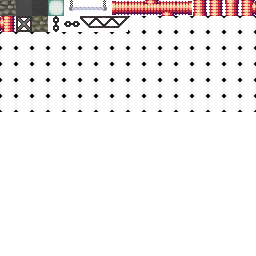
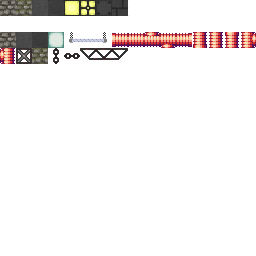
#10 some gen stuff

Changed region(s): [[0.0, 0.0, 1.0, 0.25]]

diff --git a/mods/world/src/server/gen.rs b/mods/world/src/server/gen.rs
@@ -1,7 +1,11 @@
-use noise::{Fbm, NoiseFn, OpenSimplex, RidgedMulti, Terrace, Worley};
+use std::collections::hash_map::DefaultHasher;
+use std::hash::{SipHasher, Hasher};
+
 use aeonetica_engine::log;
+use noise::{Fbm, NoiseFn, OpenSimplex, RidgedMulti, Terrace, Worley};
 use aeonetica_engine::math::vector::Vector2;
-use crate::common::{CHUNK_SIZE, Population};
+use rand::{SeedableRng, Rng};
+use crate::common::{CHUNK_SIZE, Population, Chunk, WorldView};
 use crate::server::world::World;
 use crate::tiles::Tile;
 
@@ -27,8 +31,31 @@ impl GenProvider {
 }
 
 impl World {
-    pub(crate) fn populate(&mut self, chunk_pos: Vector2<i32>) {
-        log!(WARN, "populated {chunk_pos}");
+    pub(crate) fn mut_init_chunk_at(&mut self, chunk_pos: Vector2<i32>, stage: Population) -> &mut Chunk{
+        let mut p = self.mut_chunk_at_raw(chunk_pos).population;
+        while (p as u8) < stage as u8 {
+            println!("{} {:?} {:?}", chunk_pos, p, stage);
+            match p {
+                Population::Uninit => self.populate_terrain(chunk_pos),
+                Population::TerrainRaw => self.post_process_terrain(chunk_pos),
+                Population::TerrainPostProcess => self.structurize_chunk(chunk_pos),
+                Population::Structures => self.mut_chunk_at_raw(chunk_pos).population = Population::Finished,
+                Population::Finished => unreachable!("finished should always be last population stage"),
+            }
+            p = self.mut_chunk_at_raw(chunk_pos).population;
+        }
+        self.mut_chunk_at_raw(chunk_pos)
+    }
+
+    pub fn get_init_tile_at(&mut self, pos: Vector2<i32>, stage: Population) -> Tile {
+        self.mut_init_chunk_at(World::chunk(pos), stage).get_tile(World::pos_in_chunk(pos))
+    }
+
+    pub fn set_init_tile_at(&mut self, pos: Vector2<i32>, stage: Population, t: Tile) {
+        self.mut_init_chunk_at(World::chunk(pos), stage).set_tile(World::pos_in_chunk(pos), t)
+    }
+
+    fn populate_terrain(&mut self, chunk_pos: Vector2<i32>) {
         let gen = self.generator.clone();
         let chunk = self.mut_chunk_at_raw(chunk_pos);
         let scale = 0.75;
@@ -52,16 +79,16 @@ impl World {
                         (gen.cave_noise.get((p + Vector2::new(0.0, -scale)).into_array()) > 0.0) as i32;
                 if accent_2 {
                     chunk.set_tile((x, y).into(), if accent > 1 {
-                        Tile::FloorHardStone
+                        Tile::HardStone
                     } else {
-                        Tile::FloorStoneBrick
+                        Tile::StoneBrick
                     })
                 }
                 else if (current && around > 1) || around > 2 {
                     chunk.set_tile((x, y).into(), if accent > 1 {
-                        Tile::FloorStone
+                        Tile::Stone
                     } else {
-                        Tile::FloorStoneBrick
+                        Tile::StoneBrick
                     })
                 }
             }
@@ -70,6 +97,56 @@ impl World {
         // TEMPORARY:
         chunk.set_tile(Vector2::default(), Tile::Lamp);
         
-        chunk.population = Population::Finished;
+        chunk.population = Population::TerrainRaw;
+    }
+
+    fn post_process_terrain(&mut self, chunk_pos: Vector2<i32>) {
+        let pos = chunk_pos * 16;
+        for x in 0..CHUNK_SIZE as i32 {
+            for y in 0..CHUNK_SIZE as i32 {
+                if self.get_init_tile_at(pos + Vector2::new(x, y), Population::TerrainRaw) != Tile::Wall {
+                    let s = (self.get_init_tile_at(pos + Vector2::new(x + 1, y + 0), Population::TerrainRaw) == Tile::Wall) as u8
+                              + (self.get_init_tile_at(pos + Vector2::new(x - 1, y + 0), Population::TerrainRaw) == Tile::Wall) as u8
+                              + (self.get_init_tile_at(pos + Vector2::new(x + 0, y + 1), Population::TerrainRaw) == Tile::Wall) as u8
+                              + (self.get_init_tile_at(pos + Vector2::new(x + 0, y - 1), Population::TerrainRaw) == Tile::Wall) as u8;
+                    if s == 4 {
+                        self.set_init_tile_at(pos + Vector2::new(x, y), Population::TerrainRaw, Tile::Wall)
+                    }
+                } else {
+                    let s = (self.get_init_tile_at(pos + Vector2::new(x + 1, y + 0), Population::TerrainRaw) != Tile::Wall) as u8
+                              + (self.get_init_tile_at(pos + Vector2::new(x - 1, y + 0), Population::TerrainRaw) != Tile::Wall) as u8
+                              + (self.get_init_tile_at(pos + Vector2::new(x + 0, y + 1), Population::TerrainRaw) != Tile::Wall) as u8
+                              + (self.get_init_tile_at(pos + Vector2::new(x + 0, y - 1), Population::TerrainRaw) != Tile::Wall) as u8;
+                    if s == 4 {
+                        self.set_init_tile_at(pos + Vector2::new(x, y), Population::TerrainRaw, Tile::StoneBrick)
+                    }
+                }
+            }
+        }
+        self.mut_chunk_at_raw(chunk_pos).population = Population::TerrainPostProcess;
+    }
+
+    fn structurize_chunk(&mut self, chunk_pos: Vector2<i32>) {
+        self.mut_chunk_at_raw(chunk_pos).population = Population::Structures;
+        if chunk_pos.mag_sq() <= 2 { return }
+        let pos = chunk_pos * 16;
+        let mut rng = rand::rngs::StdRng::seed_from_u64(self.chunk_hash_with_seed_and_salt(pos, 0));
+        if rng.gen_ratio(1, 10) {
+            for x in 3..(CHUNK_SIZE-3) as i32 {
+                for y in 3..(CHUNK_SIZE-3) as i32 {
+                    self.set_init_tile_at(pos + Vector2::new(x, y), Population::TerrainPostProcess, 
+                    if (x == 3) as u8 + (y == 3) as u8 + (x == CHUNK_SIZE as i32 - 4) as u8 + (y == CHUNK_SIZE as i32 - 4) as u8 > 1 { Tile::Lamp } else { Tile::LabWall })
+                }
+            }
+        }
+    }
+
+    fn chunk_hash_with_seed_and_salt(&self, pos: Vector2<i32>, salt: u64) -> u64 {
+        let mut hasher = DefaultHasher::new();
+        hasher.write_u64(self.generator.seed);
+        hasher.write_i32(pos.x);
+        hasher.write_i32(pos.y);
+        hasher.write_u64(salt);
+        hasher.finish()
     }
 }

diff --git a/mods/world/src/server/world.rs b/mods/world/src/server/world.rs
@@ -18,7 +18,7 @@ use crate::tiles::Tile;
 
 pub const WORLD: &str = "WORLD";
 
-struct ChunkHolder {
+pub(crate) struct ChunkHolder {
     further_x: Option<Box<ChunkHolder>>,
     further_y: Option<Box<ChunkHolder>>,
     chunk: Chunk,
@@ -81,65 +81,12 @@ impl World {
         self.get_chunk_at(World::chunk(pos)).get_tile(World::pos_in_chunk(pos))
     }
 
-    pub fn try_get_tile_no_gen(&self, pos: Vector2<i32>) -> Nullable<Tile> {
-        Nullable::Value(self.try_get_chunk_no_gen(World::chunk(pos))?.get_tile(World::pos_in_chunk(pos)))
-    }
-
     pub fn set_tile_at(&mut self, pos: Vector2<i32>, t: Tile) {
         self.mut_chunk_at(World::chunk(pos)).set_tile(World::pos_in_chunk(pos), t)
     }
 
     pub fn mut_chunk_at(&mut self, chunk_pos: Vector2<i32>) -> &mut Chunk {
-        if let Population::Finished = self.mut_chunk_at_raw(chunk_pos).population {
-            self.mut_chunk_at_raw(chunk_pos)
-        } else {
-            self.populate(chunk_pos);
-            self.mut_chunk_at_raw(chunk_pos)
-        }
-    }
-
-    pub fn try_get_chunk_no_gen(&self, chunk_pos: Vector2<i32>) -> Nullable<&Chunk> {
-        if self.cached_chunk_pos == chunk_pos {
-            return Nullable::Value(unsafe { &*(self.cached_chunk_raw_ptr as *const Chunk) })
-        }
-
-        let mut cp = chunk_pos;
-        let mut chunk_ref = match (chunk_pos.x >= 0, chunk_pos.y >= 0) {
-            (true, true) => {
-                &self.origin_ne
-            },
-            (true, false) => {
-                cp.y = -cp.y - 1;
-                &self.origin_se
-            },
-            (false, true) => {
-                cp.x = -cp.x - 1;
-                &self.origin_nw
-            },
-            (false, false) => {
-                cp.x = -cp.x - 1;
-                cp.y = -cp.y - 1;
-                &self.origin_sw
-            },
-        };
-        while cp.x > 0 {
-            cp.x -= 1;
-            if chunk_ref.further_x.is_none() {
-                return Nullable::Null
-            }
-            chunk_ref = chunk_ref.further_x.as_ref().unwrap();
-        }
-        while cp.y > 0 {
-            cp.y -= 1;
-            if chunk_ref.further_y.is_none() {
-                return Nullable::Null
-            }
-            chunk_ref = chunk_ref.further_y.as_ref().unwrap();
-        }
-        let mut_self = unsafe { &mut *(self as *const Self as usize as *mut Self)};
-        mut_self.cached_chunk_pos = chunk_pos;
-        mut_self.cached_chunk_raw_ptr = &chunk_ref.chunk as *const Chunk as usize;
-        Nullable::Value(&chunk_ref.chunk)
+        self.mut_init_chunk_at(chunk_pos, Population::Finished)
     }
 
 
@@ -199,6 +146,54 @@ impl World {
     pub(crate) fn request_world_chunk(id: &EntityId, engine: &mut Engine, client: &ClientId, chunk_pos: Vector2<i32>) {
         let chunk = engine.mut_module_of::<Self>(id).get_chunk_at(chunk_pos).clone();
         engine.mut_module_of::<Messenger>(id).call_client_fn_for(WorldHandle::receive_chunk_data, client, chunk, SendMode::Safe);
+    }
+
+    pub fn try_get_tile_no_gen(&self, pos: Vector2<i32>) -> Nullable<Tile> {
+        Nullable::Value(self.try_get_chunk_no_gen(World::chunk(pos))?.get_tile(World::pos_in_chunk(pos)))
+    }
+
+    pub fn try_get_chunk_no_gen(&self, chunk_pos: Vector2<i32>) -> Nullable<&Chunk> {
+        if self.cached_chunk_pos == chunk_pos {
+            return Nullable::Value(unsafe { &*(self.cached_chunk_raw_ptr as *const Chunk) })
+        }
+
+        let mut cp = chunk_pos;
+        let mut chunk_ref = match (chunk_pos.x >= 0, chunk_pos.y >= 0) {
+            (true, true) => {
+                &self.origin_ne
+            },
+            (true, false) => {
+                cp.y = -cp.y - 1;
+                &self.origin_se
+            },
+            (false, true) => {
+                cp.x = -cp.x - 1;
+                &self.origin_nw
+            },
+            (false, false) => {
+                cp.x = -cp.x - 1;
+                cp.y = -cp.y - 1;
+                &self.origin_sw
+            },
+        };
+        while cp.x > 0 {
+            cp.x -= 1;
+            if chunk_ref.further_x.is_none() {
+                return Nullable::Null
+            }
+            chunk_ref = chunk_ref.further_x.as_ref().unwrap();
+        }
+        while cp.y > 0 {
+            cp.y -= 1;
+            if chunk_ref.further_y.is_none() {
+                return Nullable::Null
+            }
+            chunk_ref = chunk_ref.further_y.as_ref().unwrap();
+        }
+        let mut_self = unsafe { &mut *(self as *const Self as usize as *mut Self)};
+        mut_self.cached_chunk_pos = chunk_pos;
+        mut_self.cached_chunk_raw_ptr = &chunk_ref.chunk as *const Chunk as usize;
+        Nullable::Value(&chunk_ref.chunk)
     }
 }
 

diff --git a/mods/player/src/client.rs b/mods/player/src/client.rs
@@ -111,20 +111,20 @@ impl PlayerHandle {
         self.is_controlling = is_controlling
     }
 
-    pub(crate) fn receive_position(&mut self, _messenger: &mut ClientMessenger, _renderer: Nullable<&mut Renderer>, _store: &mut DataStore, (position, teleporting): (Vector2<f32>, bool)) {
-        if !self.is_controlling {
-            if teleporting {
-                self.p_position = position;
-                self.interpolation_delta = 1.0;
-                self.position = position;
-                let quad = &mut *self.quad;
-                quad.set_position(self.position);
-            } else {
-                self.p_position = self.p_position + (self.position - self.p_position) * self.interpolation_delta;
-                self.interpolation_delta = 0.0;
-                self.position = position;
-            }
-        }
+    pub(crate) fn receive_position(&mut self, _messenger: &mut ClientMessenger, _renderer: Nullable<&mut Renderer>, _store: &mut DataStore, (position, teleporting): (Vector2<f32>, bool)) { 
+		if teleporting {
+			self.p_position = position;
+			self.interpolation_delta = 1.0;
+			self.position = position;
+			let quad = &mut *self.quad;
+			quad.set_position(self.position);
+		} else {
+			if !self.is_controlling {
+				self.p_position = self.p_position + (self.position - self.p_position) * self.interpolation_delta;
+				self.interpolation_delta = 0.0;
+				self.position = position;
+			}
+		}
     }
 }
 

diff --git a/server/build.py b/server/build.py
@@ -50,15 +50,22 @@ if __name__ == '__main__':
     total = len(processes)
     print(f'Queued {total} builds: {[x[0] for x in processes]}')
 
+    finished_msgs = []
+
     def finished(n, p):
         status = p.poll()
         if status is None:
             return False
         print(f'completed build {BOLD}{n}{ENDC} with exit status: {status} ({total - len(processes) + 1} of {total})')
+        finished_msgs.append(f'{BOLD}{n}{ENDC} with exit status {status}')
         return True
         
     while len(processes) > 0:
         processes[:] = [x for x in processes if not finished(*x)]
+    
+    print(f'{BOLD} ALL MODS BUILT: {ENDC}')
+    for msg in finished_msgs:
+        print(f'    {msg}')
     
     os.chdir(dname)
     print(f'{BLUE}{BOLD}=>> COMPILING SERVER: {ENDC}')

diff --git a/mods/world/src/tiles.rs b/mods/world/src/tiles.rs
@@ -1,13 +1,17 @@
 use aeonetica_engine::nanoserde::{self, DeBin, SerBin};
 
 #[repr(u16)]
-#[derive(Debug, Copy, Clone, SerBin, DeBin)]
+#[derive(Debug, Copy, Clone, SerBin, DeBin, PartialEq)]
 pub enum Tile {
     Wall,
-    FloorStoneBrick,
-    FloorStone,
-    FloorHardStone,
-    Lamp
+    StoneBrick,
+    MossyStoneBrick,
+    Stone,
+    HardStone,
+    Lamp,
+    QuarteredLamp,
+    LabWall,
+    LabBrickWall
 }
 
 impl Tile {
@@ -17,5 +21,9 @@ impl Tile {
 
     pub fn is_solid(&self) -> bool {
         (*self as u16) == 0
+    }
+
+    pub fn is_natural(&self) -> bool {
+        matches!(self, Tile::Wall | Tile::StoneBrick | Tile::Stone | Tile::HardStone)
     }
 }

diff --git a/mods/player/src/server.rs b/mods/player/src/server.rs
@@ -31,7 +31,7 @@ impl ServerMod for PlayerModServer {
                     // creating self player
                     let mut player = engine.mut_entity(&pid);
                     player.add_module(Messenger::new::<PlayerHandle>());
-                    player.add_module(Player { position: Default::default() });
+                    player.add_module(Player { position: Vector2::new(3.0, 0.0) });
                 }
                 let prcrc = engine.get_module_of::<PlayerHandler>(id).players.clone();
                 let mut players = prcrc.borrow_mut();

diff --git a/mods/world/src/common.rs b/mods/world/src/common.rs
@@ -7,9 +7,13 @@ use crate::tiles::Tile;
 pub const CHUNK_SIZE: usize = 16;
 pub const GRAVITY: f32 = -20.0;
 
-#[derive(SerBin, DeBin, Debug, Clone)]
+#[derive(SerBin, DeBin, Debug, Copy, Clone)]
+#[repr(u8)]
 pub enum Population {
     Uninit,
+    TerrainRaw,
+    TerrainPostProcess,
+    Structures,
     Finished
 }
 
